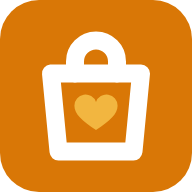
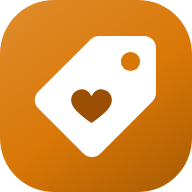
Add files via upload

diff --git a/index.html b/index.html
@@ -793,42 +793,14 @@ dialog.mb-share::backdrop{background:var(--scrim)}
 </style>
 </head>
 <body class="mb-shell">
-<svg xmlns="http://www.w3.org/2000/svg" style="display:none" aria-hidden="true">
-  <symbol id="i-logo" viewBox="0 0 64 64"><rect width="64" height="64" rx="13" fill="#D97706"/><g transform="translate(0,-0.02416552)"><path d="m 17,24.524164 h 30 l -2.5,26 h -25 z" fill="none" stroke="#fff" stroke-width="6" stroke-linecap="round" stroke-linejoin="round"/><path d="m 25,24.524164 v -4 a 7,7 0 0 1 14,0 v 4" fill="none" stroke="#fff" stroke-width="6" stroke-linecap="round" stroke-linejoin="round"/><path d="m 32,43.341388 c -4.6,-3 -7.2,-5.4 -7.2,-8.1 a 3.7,3.7 0 0 1 7.2,-1.2 3.7,3.7 0 0 1 7.2,1.2 c 0,2.7 -2.6,5.1 -7.2,8.1 z" fill="#f2b640"/></g></symbol>
-  <symbol id="i-cart" viewBox="0 0 24 24"><path d="M3 3.8h2.3l2.4 11.4a1.4 1.4 0 0 0 1.4 1.1h8.9a1.4 1.4 0 0 0 1.4-1l2-7.5H6.4"/><circle cx="9.8" cy="20" r="1.5" fill="currentColor" stroke="none"/><circle cx="17.7" cy="20" r="1.5" fill="currentColor" stroke="none"/></symbol>
-  <symbol id="i-search" viewBox="0 0 24 24"><circle cx="11" cy="11" r="7"/><path d="M21 21l-4.35-4.35"/></symbol>
-  <symbol id="i-data" viewBox="0 0 24 24"><ellipse cx="12" cy="5" rx="8" ry="3"/><path d="M4 5v14c0 1.66 3.58 3 8 3s8-1.34 8-3V5"/><path d="M4 12c0 1.66 3.58 3 8 3s8-1.34 8-3"/></symbol>
-  <symbol id="i-chev" viewBox="0 0 24 24"><path d="M6 9l6 6 6-6"/></symbol>
-  <symbol id="i-save" viewBox="0 0 24 24"><path d="M19 21H5a2 2 0 0 1-2-2V5a2 2 0 0 1 2-2h11l5 5v11a2 2 0 0 1-2 2z"/><path d="M17 21v-8H7v8M7 3v5h8"/></symbol>
-  <symbol id="i-download" viewBox="0 0 24 24"><path d="M21 15v4a2 2 0 0 1-2 2H5a2 2 0 0 1-2-2v-4"/><path d="M7 10l5 5 5-5M12 15V3"/></symbol>
-  <symbol id="i-upload" viewBox="0 0 24 24"><path d="M21 15v4a2 2 0 0 1-2 2H5a2 2 0 0 1-2-2v-4"/><path d="M17 8l-5-5-5 5M12 3v12"/></symbol>
-  <symbol id="i-sheet" viewBox="0 0 24 24"><rect x="3" y="3" width="18" height="18" rx="2"/><path d="M3 9h18M3 15h18M9 3v18"/></symbol>
-  <symbol id="i-grid" viewBox="0 0 24 24"><rect x="3" y="3" width="7" height="7" rx="1"/><rect x="14" y="3" width="7" height="7" rx="1"/><rect x="3" y="14" width="7" height="7" rx="1"/><rect x="14" y="14" width="7" height="7" rx="1"/></symbol>
-  <symbol id="i-rows" viewBox="0 0 24 24"><path d="M8 6h13M8 12h13M8 18h13M3 6h.01M3 12h.01M3 18h.01"/></symbol>
-  <symbol id="i-edit" viewBox="0 0 24 24"><path d="M12 20h9"/><path d="M16.5 3.5a2.12 2.12 0 0 1 3 3L7 19l-4 1 1-4z"/></symbol>
-  <symbol id="i-trash" viewBox="0 0 24 24"><path d="M3 6h18"/><path d="M19 6l-1 14a2 2 0 0 1-2 2H8a2 2 0 0 1-2-2L5 6"/><path d="M10 11v6M14 11v6M9 6V4a1 1 0 0 1 1-1h4a1 1 0 0 1 1 1v2"/></symbol>
-  <symbol id="i-undo" viewBox="0 0 24 24"><path d="M9 14L4 9l5-5"/><path d="M20 20v-7a4 4 0 0 0-4-4H4"/></symbol>
-  <symbol id="i-ext" viewBox="0 0 24 24"><path d="M15 3h6v6M10 14L21 3"/><path d="M18 13v6a2 2 0 0 1-2 2H5a2 2 0 0 1-2-2V8a2 2 0 0 1 2-2h6"/></symbol>
-  <symbol id="i-check" viewBox="0 0 24 24"><path d="M20 6L9 17l-5-5"/></symbol>
-  <symbol id="i-plus" viewBox="0 0 24 24"><path d="M12 5v14M5 12h14"/></symbol>
-  <symbol id="i-help" viewBox="0 0 24 24"><circle cx="12" cy="12" r="10"/><path d="M9.1 9a3 3 0 0 1 5.8 1c0 2-3 3-3 3M12 17h.01"/></symbol>
-  <symbol id="i-more" viewBox="0 0 24 24"><circle cx="5" cy="12" r="1.3" fill="currentColor"/><circle cx="12" cy="12" r="1.3" fill="currentColor"/><circle cx="19" cy="12" r="1.3" fill="currentColor"/></symbol>
-  <symbol id="i-bought" viewBox="0 0 24 24"><path d="M9 11l3 3L22 4"/><path d="M21 12v7a2 2 0 0 1-2 2H5a2 2 0 0 1-2-2V5a2 2 0 0 1 2-2h11"/></symbol>
-  <symbol id="i-list" viewBox="0 0 24 24"><path d="M9 6h12M9 12h12M9 18h12"/><path d="M4 6l1 1 1.5-2M4 12l1 1 1.5-2M4 18l1 1 1.5-2"/></symbol>
-  <symbol id="i-clock" viewBox="0 0 24 24"><circle cx="12" cy="12" r="9"/><path d="M12 7v5l3 2"/></symbol>
-  <symbol id="i-sun" viewBox="0 0 24 24"><circle cx="12" cy="12" r="4"/><path d="M12 2v2M12 20v2M4.9 4.9l1.4 1.4M17.7 17.7l1.4 1.4M2 12h2M20 12h2M4.9 19.1l1.4-1.4M17.7 6.3l1.4-1.4"/></symbol>
-  <symbol id="i-moon" viewBox="0 0 24 24"><path d="M21 12.8A9 9 0 1 1 11.2 3a7 7 0 0 0 9.8 9.8z"/></symbol>
-  <symbol id="i-up" viewBox="0 0 24 24"><path d="M12 19V5M5 12l7-7 7 7"/></symbol>
-  <symbol id="i-doc" viewBox="0 0 24 24"><path d="M14 2H6a2 2 0 0 0-2 2v16a2 2 0 0 0 2 2h12a2 2 0 0 0 2-2V8z"/><path d="M14 2v6h6M16 13H8M16 17H8"/></symbol>
-  <symbol id="i-shield" viewBox="0 0 24 24"><path d="M12 22s8-4 8-10V5l-8-3-8 3v7c0 6 8 10 8 10z"/></symbol>
-  <symbol id="i-share" viewBox="0 0 24 24"><path d="M4 12v7a2 2 0 0 0 2 2h12a2 2 0 0 0 2-2v-7"/><path d="M16 6l-4-4-4 4M12 2v13"/></symbol>
-  <symbol id="i-image" viewBox="0 0 24 24"><rect x="3" y="3" width="18" height="18" rx="2"/><circle cx="8.5" cy="8.5" r="1.5"/><path d="M21 15l-5-5L5 21"/></symbol>
-</svg>
+<svg xmlns="http://www.w3.org/2000/svg" style="display:none" aria-hidden="true"><defs><linearGradient id="mbwi-g1-1" gradientUnits="userSpaceOnUse" x1="10" y1="0" x2="54" y2="64"><stop offset="0" stop-color="#de8a29"/><stop offset=".55" stop-color="#D97706"/><stop offset="1" stop-color="#ae5f05"/></linearGradient><clipPath id="mbwi-c1-1"><rect width="64" height="64" rx="18"/></clipPath></defs><g clip-path="url(#mbwi-c1-1)"><rect width="64" height="64" fill="url(#mbwi-g1-1)"/><path d="M33 12h15a4 4 0 0 1 4 4v15a4 4 0 0 1-1.2 2.8L33.5 51.2a4 4 0 0 1-5.7 0L12.8 36.2a4 4 0 0 1 0-5.7L30.2 13.2A4 4 0 0 1 33 12z" fill="#fff"/>
+<circle cx="43.5" cy="20.5" r="3.2" fill="#D97706"/><path d="M30.5 41c-4.4-3-6.8-5.2-6.8-7.8a3.5 3.5 0 0 1 6.8-1.1 3.5 3.5 0 0 1 6.8 1.1c0 2.6-2.4 4.8-6.8 7.8z" fill="#9A4F05"/></g></svg>
 
 <a href="#main" class="skip">Skip to content</a>
 
 <aside class="mb-side" aria-label="App">
-  <a class="brand" href="./" data-home aria-label="mbwishlist.online: go to My list"><span class="logo"><svg viewBox="0 0 64 64" aria-hidden="true" focusable="false" xmlns="http://www.w3.org/2000/svg"><rect width="64" height="64" rx="13" fill="#D97706"/><g transform="translate(0,-0.02416552)"><path d="m 17,24.524164 h 30 l -2.5,26 h -25 z" fill="none" stroke="#fff" stroke-width="6" stroke-linecap="round" stroke-linejoin="round"/><path d="m 25,24.524164 v -4 a 7,7 0 0 1 14,0 v 4" fill="none" stroke="#fff" stroke-width="6" stroke-linecap="round" stroke-linejoin="round"/><path d="m 32,43.341388 c -4.6,-3 -7.2,-5.4 -7.2,-8.1 a 3.7,3.7 0 0 1 7.2,-1.2 3.7,3.7 0 0 1 7.2,1.2 c 0,2.7 -2.6,5.1 -7.2,8.1 z" fill="#f2b640"/></g></svg></span><span class="bt"><b>mbwishlist<i class="tld">.online</i></b><span>Official Web App · v1.1</span></span></a>
+  <a class="brand" href="./" data-home aria-label="mbwishlist.online: go to My list"><span class="logo"><svg viewBox="0 0 64 64" aria-hidden="true" focusable="false" xmlns="http://www.w3.org/2000/svg"><defs><linearGradient id="mbwi-g1-2" gradientUnits="userSpaceOnUse" x1="10" y1="0" x2="54" y2="64"><stop offset="0" stop-color="#de8a29"/><stop offset=".55" stop-color="#D97706"/><stop offset="1" stop-color="#ae5f05"/></linearGradient><clipPath id="mbwi-c1-2"><rect width="64" height="64" rx="18"/></clipPath></defs><g clip-path="url(#mbwi-c1-2)"><rect width="64" height="64" fill="url(#mbwi-g1-2)"/><path d="M33 12h15a4 4 0 0 1 4 4v15a4 4 0 0 1-1.2 2.8L33.5 51.2a4 4 0 0 1-5.7 0L12.8 36.2a4 4 0 0 1 0-5.7L30.2 13.2A4 4 0 0 1 33 12z" fill="#fff"/>
+<circle cx="43.5" cy="20.5" r="3.2" fill="#D97706"/><path d="M30.5 41c-4.4-3-6.8-5.2-6.8-7.8a3.5 3.5 0 0 1 6.8-1.1 3.5 3.5 0 0 1 6.8 1.1c0 2.6-2.4 4.8-6.8 7.8z" fill="#9A4F05"/></g></svg></span><span class="bt"><b>mbwishlist<i class="tld">.online</i></b><span>Official Web App · v1.1</span></span></a>
   <nav class="side-nav" id="siteNav" aria-label="Sections">
     <button type="button" id="tabWishlist" data-tab="wishlist" aria-current="page"><svg class="i" aria-hidden="true"><use href="#i-list"/></svg><span>My list</span><span class="count" id="countWishlist"></span></button>
     <button type="button" id="tabPurchased" data-tab="purchased"><svg class="i" aria-hidden="true"><use href="#i-bought"/></svg><span>Purchased</span><span class="count" id="countPurchased"></span></button>
@@ -840,7 +812,8 @@ dialog.mb-share::backdrop{background:var(--scrim)}
 
 <div class="mb-main">
 <header class="page-bar" id="siteHeader">
-  <a class="brand phone-brand" href="./" data-home aria-label="mbwishlist.online: go to My list"><span class="logo"><svg viewBox="0 0 64 64" aria-hidden="true" focusable="false" xmlns="http://www.w3.org/2000/svg"><rect width="64" height="64" rx="13" fill="#D97706"/><g transform="translate(0,-0.02416552)"><path d="m 17,24.524164 h 30 l -2.5,26 h -25 z" fill="none" stroke="#fff" stroke-width="6" stroke-linecap="round" stroke-linejoin="round"/><path d="m 25,24.524164 v -4 a 7,7 0 0 1 14,0 v 4" fill="none" stroke="#fff" stroke-width="6" stroke-linecap="round" stroke-linejoin="round"/><path d="m 32,43.341388 c -4.6,-3 -7.2,-5.4 -7.2,-8.1 a 3.7,3.7 0 0 1 7.2,-1.2 3.7,3.7 0 0 1 7.2,1.2 c 0,2.7 -2.6,5.1 -7.2,8.1 z" fill="#f2b640"/></g></svg></span><span class="bt"><b>mbwishlist<i class="tld">.online</i></b><span>Official Web App · v1.1</span></span></a>
+  <a class="brand phone-brand" href="./" data-home aria-label="mbwishlist.online: go to My list"><span class="logo"><svg viewBox="0 0 64 64" aria-hidden="true" focusable="false" xmlns="http://www.w3.org/2000/svg"><defs><linearGradient id="mbwi-g1-3" gradientUnits="userSpaceOnUse" x1="10" y1="0" x2="54" y2="64"><stop offset="0" stop-color="#de8a29"/><stop offset=".55" stop-color="#D97706"/><stop offset="1" stop-color="#ae5f05"/></linearGradient><clipPath id="mbwi-c1-3"><rect width="64" height="64" rx="18"/></clipPath></defs><g clip-path="url(#mbwi-c1-3)"><rect width="64" height="64" fill="url(#mbwi-g1-3)"/><path d="M33 12h15a4 4 0 0 1 4 4v15a4 4 0 0 1-1.2 2.8L33.5 51.2a4 4 0 0 1-5.7 0L12.8 36.2a4 4 0 0 1 0-5.7L30.2 13.2A4 4 0 0 1 33 12z" fill="#fff"/>
+<circle cx="43.5" cy="20.5" r="3.2" fill="#D97706"/><path d="M30.5 41c-4.4-3-6.8-5.2-6.8-7.8a3.5 3.5 0 0 1 6.8-1.1 3.5 3.5 0 0 1 6.8 1.1c0 2.6-2.4 4.8-6.8 7.8z" fill="#9A4F05"/></g></svg></span><span class="bt"><b>mbwishlist<i class="tld">.online</i></b><span>Official Web App · v1.1</span></span></a>
   <h1 class="page-title" id="pageTitle">My list</h1>
   <div class="actions">
       <button type="button" class="btn sm ghost hide-phone" id="searchBtn" aria-label="Search (Ctrl/Cmd+K)" title="Search (Ctrl/Cmd+K)"><svg class="i" aria-hidden="true"><use href="#i-search"/></svg><kbd>Ctrl K</kbd></button>

diff --git a/404.html b/404.html
@@ -53,7 +53,8 @@ footer a{color:var(--muted);text-decoration:none}footer a:hover{color:var(--acce
 </head>
 <body>
 <div class="bar"></div>
-<header><a class="brand" href="/"><svg aria-hidden="true" focusable="false" xmlns="http://www.w3.org/2000/svg" viewBox="0 0 64 64"><rect width="64" height="64" rx="13" fill="#D97706"/><g transform="translate(0,-0.02416552)"><path d="m 17,24.524164 h 30 l -2.5,26 h -25 z" fill="none" stroke="#fff" stroke-width="6" stroke-linecap="round" stroke-linejoin="round"/><path d="m 25,24.524164 v -4 a 7,7 0 0 1 14,0 v 4" fill="none" stroke="#fff" stroke-width="6" stroke-linecap="round" stroke-linejoin="round"/><path d="m 32,43.341388 c -4.6,-3 -7.2,-5.4 -7.2,-8.1 a 3.7,3.7 0 0 1 7.2,-1.2 3.7,3.7 0 0 1 7.2,1.2 c 0,2.7 -2.6,5.1 -7.2,8.1 z" fill="#f2b640"/></g></svg><span>mbwishlist<i>.online</i></span></a></header>
+<header><a class="brand" href="/"><svg aria-hidden="true" focusable="false" xmlns="http://www.w3.org/2000/svg" viewBox="0 0 64 64"><defs><linearGradient id="mbwi-g1" gradientUnits="userSpaceOnUse" x1="10" y1="0" x2="54" y2="64"><stop offset="0" stop-color="#de8a29"/><stop offset=".55" stop-color="#D97706"/><stop offset="1" stop-color="#ae5f05"/></linearGradient><clipPath id="mbwi-c1"><rect width="64" height="64" rx="18"/></clipPath></defs><g clip-path="url(#mbwi-c1)"><rect width="64" height="64" fill="url(#mbwi-g1)"/><path d="M33 12h15a4 4 0 0 1 4 4v15a4 4 0 0 1-1.2 2.8L33.5 51.2a4 4 0 0 1-5.7 0L12.8 36.2a4 4 0 0 1 0-5.7L30.2 13.2A4 4 0 0 1 33 12z" fill="#fff"/>
+<circle cx="43.5" cy="20.5" r="3.2" fill="#D97706"/><path d="M30.5 41c-4.4-3-6.8-5.2-6.8-7.8a3.5 3.5 0 0 1 6.8-1.1 3.5 3.5 0 0 1 6.8 1.1c0 2.6-2.4 4.8-6.8 7.8z" fill="#9A4F05"/></g></svg><span>mbwishlist<i>.online</i></span></a></header>
 <main>
 <div class="card">
 <span class="code"><b>404</b><i aria-hidden="true">·</i>Page not found</span>

diff --git a/sw.js b/sw.js
@@ -2,7 +2,7 @@
    Network-first for the app's own files, cache as the offline fallback. Never touches your list:
    localStorage / IndexedDB aren't involved, and non-GET and cross-origin requests are left alone.
    BUMP VERSION ON EVERY RELEASE so old cached files are dropped. */
-const VERSION = 'mbwishlist-v1.1-20261014-11e092db';
+const VERSION = 'mbwishlist-v1.1-20261014-0d5155e2';
 const SHELL = ['./', 'index.html', 'manifest.json', 'favicon.svg', 'favicon.ico', 'apple-touch-icon.png', 'icon-192.png', 'icon-512.png', 'icon-maskable-512.png'];
 
 self.addEventListener('install', e => {

diff --git a/RELEASE_NOTES.md b/RELEASE_NOTES.md
@@ -3,6 +3,7 @@
 Newest first. One entry per release, in plain words a user would understand.
 
 ## 1.1 · 2026-10-14
+- New logo, redrawn in the same style as the other mb apps (app icon, tab icon, share image and pages all updated).
 
 - About card at the bottom of the FAQ page: version, release date, links and copyright in one place. The Install card moved from the top of the FAQ down next to it.
 - Installing from matthewbroyer.com: the hub's Install button opens the app with a short install prompt.
